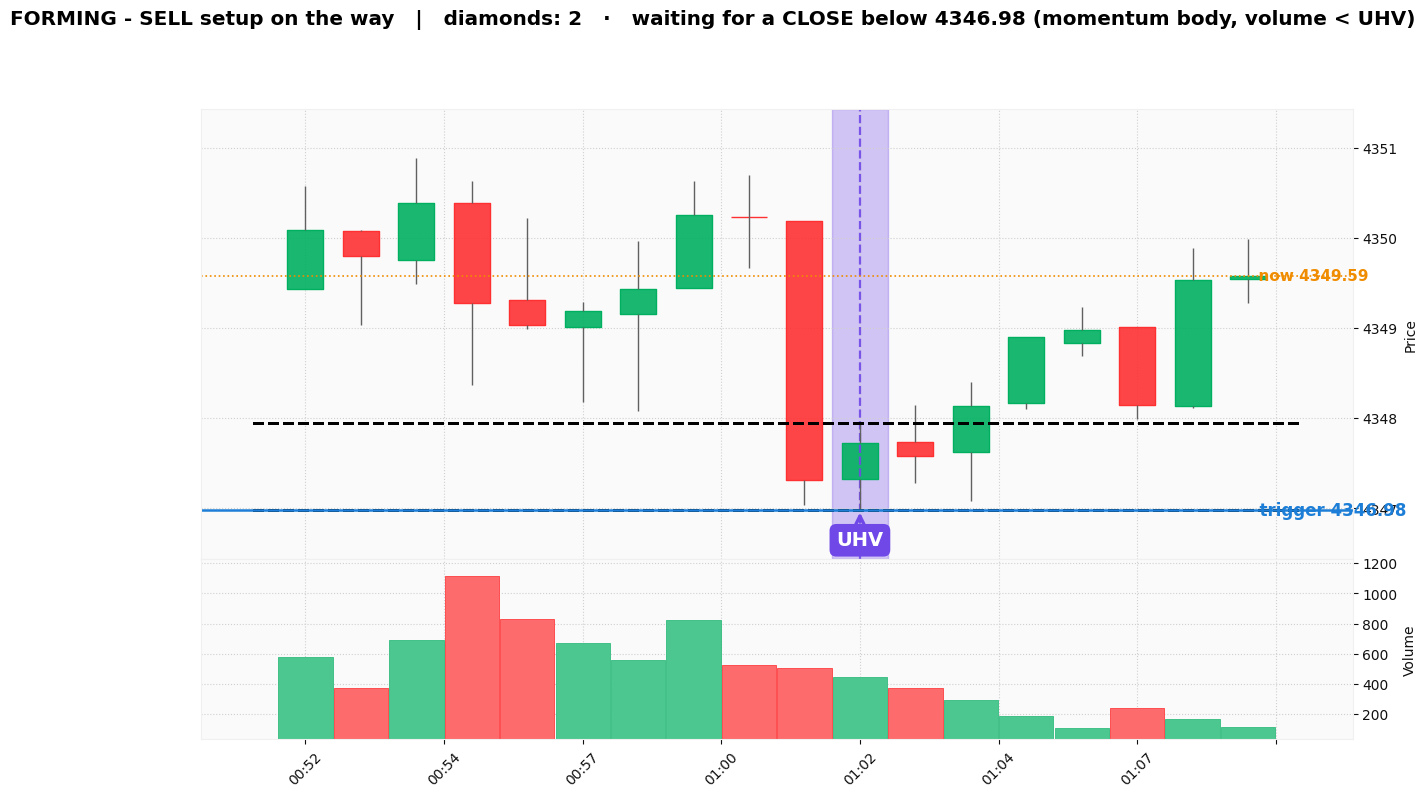
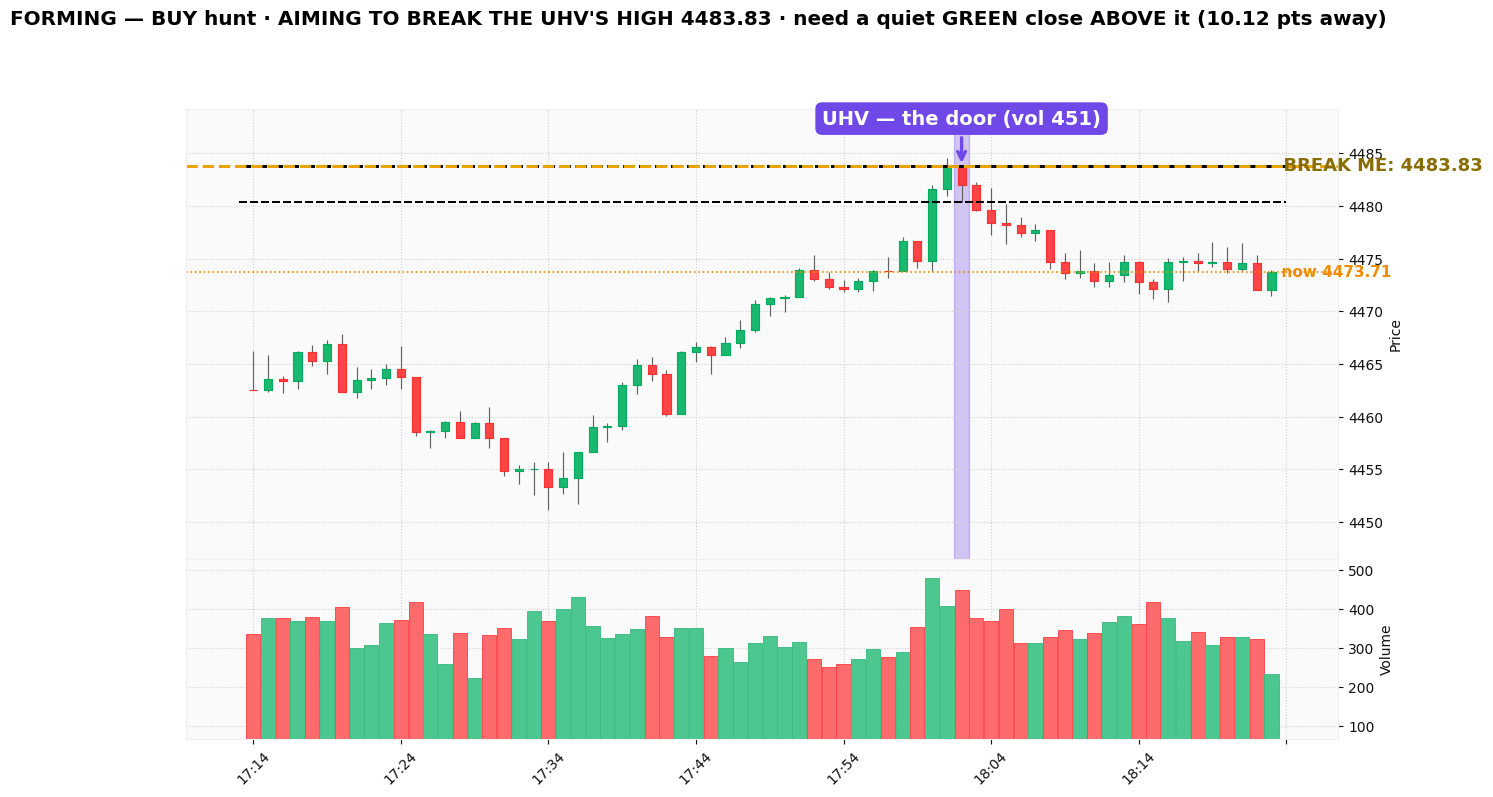
👀 'Draw the setup forming now' speaks the hunt: AIMING TO BREAK THE UHV'S HIGH, drawn
Zee: 'if i click draw the setup forming now, it should tell that we're aiming to
break the marked UHV's high in a drawn form.' The old painter depended on
case_watch.json (dead with the OANDA matcher since Aug 14); it now falls back to
the live anatomy (terminal bars, rot-proof): purple 'UHV — the door' band, gold
'BREAK ME: <trigger>' line, 'now' line with live distance, title in his sentence.
Verified live: BUY hunt, break 4483.83, 10.12 pts away.

diff --git a/monitor/forensic_chart.py b/monitor/forensic_chart.py
@@ -532,6 +532,62 @@ def draw_trade(broker_ts, side, exit_px, out=None):
 WATCH_F = Path(r"C:/Users/zeesh/AppData/Roaming/MetaQuotes/Terminal/Common/Files/case_watch.json")
 
 
+def _forming_from_anatomy(out=None):
+    """The forming setup drawn from the LIVE ANATOMY (terminal bars, rot-proof):
+    the crowned UHV banded purple, and the exact sentence of the hunt — 'aiming to
+    break the UHV's high at X — need a quiet green close above it (N pts away)'."""
+    import setup_anatomy, trend_eyes
+    bars = trend_eyes.load_bars()
+    a = setup_anatomy.analyze(bars)
+    if not a or a.get("uhv") is None:
+        return None, "fresh leg — no counter-candle printed yet, nothing is forming"
+    side, u, trig = a["side"], a["uhv"], a["trigger"]
+    win = bars[-70:]
+    idx = pd.DatetimeIndex([x[0] + timedelta(hours=5) for x in win])
+    df = pd.DataFrame({"Open": [x[1] for x in win], "High": [x[1] for x in win],
+                       "Low": [x[2] for x in win], "Close": [x[3] for x in win],
+                       "Volume": [x[4] for x in win]}, index=idx)
+    # honest OHLC: trend_eyes rows carry (t, high, low, close, vol) — approximate
+    # open with the prior close so candles render truthfully enough to read
+    opens = [win[0][3]] + [win[k - 1][3] for k in range(1, len(win))]
+    df["Open"] = opens
+    ui = next((i2 for i2, x in enumerate(win) if x[0] == u[0]), None)
+    px = a["price"]
+    dist = (trig - px) if side == "BUY" else (px - trig)
+    need = ("a quiet GREEN close ABOVE" if side == "BUY" else "a quiet RED close BELOW")
+    ttl = (f"FORMING — {side} hunt · AIMING TO BREAK THE UHV'S "
+           f"{'HIGH' if side == 'BUY' else 'LOW'} {trig:.2f} · need {need} it"
+           + (f" ({dist:.2f} pts away)" if dist > 0 else " — AT THE DOOR"))
+    style = mpf.make_mpf_style(base_mpf_style="yahoo", gridstyle=":")
+    other = u[2] if side == "BUY" else u[1]
+    hl = dict(hlines=[trig, other], colors=["k", "k"], linestyle="--", linewidths=[2.2, 1.4])
+    fig, axes = mpf.plot(df, type="candle", style=style, volume=True, figsize=(16, 9),
+                         hlines=hl, returnfig=True, title=ttl)
+    ax = axes[0]
+    if ui is not None:
+        ax.axvspan(ui - 0.5, ui + 0.5, color="#7048e8", alpha=0.30, zorder=0)
+        ax.annotate(f"UHV — the door (vol {int(u[4])})", xy=(ui, trig),
+                    textcoords="offset points", xytext=(0, 30), ha="center",
+                    fontsize=14, fontweight="bold", color="white",
+                    annotation_clip=False, zorder=6,
+                    bbox=dict(boxstyle="round,pad=0.35", fc="#7048e8", ec="none"),
+                    arrowprops=dict(arrowstyle="->", lw=2.4, color="#7048e8"))
+    ax.axhline(trig, color="#e8a305", lw=2.2, ls="--")
+    ax.text(len(win) - 1, trig, f"  BREAK ME: {trig:.2f}", color="#8a6d00",
+            fontsize=13, fontweight="bold", va="center")
+    ax.axhline(px, color="#f08c00", lw=1.2, ls=":")
+    ax.text(len(win) - 1, px, f"  now {px:.2f}", color="#f08c00",
+            fontsize=11, fontweight="bold", va="center")
+    lo2 = min(x[2] for x in win); hi2 = max(x[1] for x in win)
+    pad = max((hi2 - lo2) * 0.14, 0.35)
+    ax.set_ylim(min(lo2, trig) - pad, max(hi2, trig) + pad)
+    out = out or (Path(__file__).parent / "setup_labels" / "forming_now.png")
+    fig.savefig(str(out), dpi=100, bbox_inches="tight")
+    plt.close(fig)
+    return out, (f"{side} · aiming to break {trig:.2f}"
+                 + (f" · {dist:.2f} pts away" if dist > 0 else " · AT THE DOOR"))
+
+
 def draw_forming(out=None):
     """THE SETUP ON THE WAY (Zee 2026-08-07): draw the UHV currently under
     consideration and its trigger lines BEFORE any breakout — so the forming setup
@@ -540,8 +596,14 @@ def draw_forming(out=None):
     import json as _json
     try:
         w = _json.loads(WATCH_F.read_text(encoding="ascii"))
+        import time as _time
+        if _time.time() - WATCH_F.stat().st_mtime > 1800:
+            raise RuntimeError("case_watch is stale — the anatomy speaks instead")
     except Exception:
-        return None, "no setup is forming right now (no UHV boxed)"
+        # 2026-08-20 (Zee: "it should tell that we're aiming to break the marked
+        # UHV's high in a drawn form") — the matcher's case_watch died with the
+        # OANDA feed; the live anatomy is the rot-proof source now.
+        return _forming_from_anatomy(out)
     side = w["side"]; lamp = float(w["level"]); sweep = float(w["sweep"])
     hi_line, lo_line = (max(lamp, sweep), min(lamp, sweep))
     rows = load()
